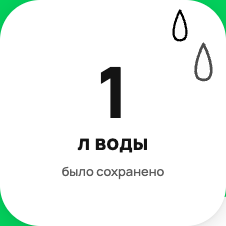
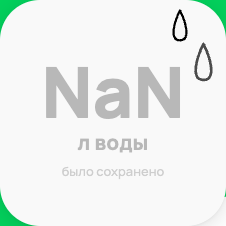
fix: clean typos

Changed region(s): [[0.1858, 0.2788, 0.8053, 0.5265], [0.3407, 0.5885, 0.6504, 0.6814], [0.2478, 0.7434, 0.7434, 0.8053]]

diff --git a/tests/test_case_02.py b/tests/test_case_02.py
@@ -1,16 +1,16 @@
 from playwright.sync_api import Page
-from autotests.config.url import Url, API
+from config.url import Url, API
 
 
-class TestCase04:
-    def test_case_04(self, page: Page) -> None:
+class TestCase02:
+    def test_case_02(self, page: Page) -> None:
         def create_route_function(path):
             return lambda route: route.fulfill(path=path)
-        page.route(API.HTTP_REQUEST, create_route_function("../data/json/test_case_4.json"))
+        page.route(API.HTTP_REQUEST, create_route_function("../data/json/test_case_2.json"))
         page.goto(Url.DOMAIN)
         page.wait_for_selector(".desktop-impact-items-F7T6E")
         counters = page.query_selector_all(".desktop-impact-item-eeQO3")
         filtered_counters = [counter for i, counter in enumerate(counters) if (i + 1) % 2 == 0]
 
         for i, counter in enumerate(filtered_counters):
-            counter.screenshot(path=f"../../output/test_case_4_counter_{i + 1}.png")
+            counter.screenshot(path=f"../output/test_case_2_counter_{i + 1}.png")

diff --git a/tests/test_case_03.py b/tests/test_case_03.py
@@ -1,16 +1,16 @@
 from playwright.sync_api import Page
-from autotests.config.url import Url, API
+from config.url import Url, API
 
 
-class TestCase02:
-    def test_case_02(self, page: Page) -> None:
+class TestCase03:
+    def test_case_03(self, page: Page) -> None:
         def create_route_function(path):
             return lambda route: route.fulfill(path=path)
-        page.route(API.HTTP_REQUEST, create_route_function("../data/json/test_case_2.json"))
+        page.route(API.HTTP_REQUEST, create_route_function("../data/json/test_case_3.json"))
         page.goto(Url.DOMAIN)
         page.wait_for_selector(".desktop-impact-items-F7T6E")
         counters = page.query_selector_all(".desktop-impact-item-eeQO3")
         filtered_counters = [counter for i, counter in enumerate(counters) if (i + 1) % 2 == 0]
 
         for i, counter in enumerate(filtered_counters):
-            counter.screenshot(path=f"../../output/test_case_2_counter_{i + 1}.png")
+            counter.screenshot(path=f"../output/test_case_3_counter_{i + 1}.png")

diff --git a/tests/test_case_04.py b/tests/test_case_04.py
@@ -1,16 +1,16 @@
 from playwright.sync_api import Page
-from autotests.config.url import Url, API
+from config.url import Url, API
 
 
-class TestCase06:
-    def test_case_06(self, page: Page) -> None:
+class TestCase04:
+    def test_case_04(self, page: Page) -> None:
         def create_route_function(path):
             return lambda route: route.fulfill(path=path)
-        page.route(API.HTTP_REQUEST, create_route_function("../data/json/test_case_2.json"))
+        page.route(API.HTTP_REQUEST, create_route_function("../data/json/test_case_4.json"))
         page.goto(Url.DOMAIN)
         page.wait_for_selector(".desktop-impact-items-F7T6E")
         counters = page.query_selector_all(".desktop-impact-item-eeQO3")
         filtered_counters = [counter for i, counter in enumerate(counters) if (i + 1) % 2 == 0]
 
         for i, counter in enumerate(filtered_counters):
-            counter.screenshot(path=f"../../output/test_case_6_counter_{i + 1}.png")
+            counter.screenshot(path=f"../output/test_case_4_counter_{i + 1}.png")

diff --git a/tests/test_case_06.py b/tests/test_case_06.py
@@ -1,16 +1,16 @@
 from playwright.sync_api import Page
-from autotests.config.url import Url, API
+from config.url import Url, API
 
 
-class TestCase03:
-    def test_case_03(self, page: Page) -> None:
+class TestCase06:
+    def test_case_06(self, page: Page) -> None:
         def create_route_function(path):
             return lambda route: route.fulfill(path=path)
-        page.route(API.HTTP_REQUEST, create_route_function("../data/json/test_case_3.json"))
+        page.route(API.HTTP_REQUEST, create_route_function("../data/json/test_case_6.json"))
         page.goto(Url.DOMAIN)
         page.wait_for_selector(".desktop-impact-items-F7T6E")
         counters = page.query_selector_all(".desktop-impact-item-eeQO3")
         filtered_counters = [counter for i, counter in enumerate(counters) if (i + 1) % 2 == 0]
 
         for i, counter in enumerate(filtered_counters):
-            counter.screenshot(path=f"../../output/test_case_3_counter_{i + 1}.png")
+            counter.screenshot(path=f"../output/test_case_6_counter_{i + 1}.png")

diff --git a/tests/test_case_01.py b/tests/test_case_01.py
@@ -1,5 +1,5 @@
 from playwright.sync_api import Page
-from autotests.config.url import Url
+from config.url import Url
 
 
 class TestCase01:
@@ -10,4 +10,4 @@ class TestCase01:
         filtered_counters = [counter for i, counter in enumerate(counters) if (i + 1) % 2 == 0]
 
         for i, counter in enumerate(filtered_counters):
-            counter.screenshot(path=f"../../output/test_case_1_counter_{i + 1}.png")
+            counter.screenshot(path=f"../output/test_case_1_counter_{i + 1}.png")

diff --git a/fixtures/page.py b/fixtures/page.py
@@ -1,6 +1,6 @@
 import pytest
 
-from autotests.config.playwright import Playwright
+from config.playwright import Playwright
 from playwright.sync_api import Page, sync_playwright
 
 

diff --git a/BUGS.md b/BUGS.md
@@ -28,10 +28,10 @@
 | **Негативный тест: отрицательные значения, строка и пустая строка** |                                                                                                                                                                                                                                |
 |:--------------------------------------------------------------------|:-------------------------------------------------------------------------------------------------------------------------------------------------------------------------------------------------------------------------------|
 | `Идентификатор`                                                     | TC-06                                                                                                                                                                                                                          |
-| `Заголовок`                                                         | Счетчики показывают 1, когда данные приходят в строковом формате.                                                                                                                                                              |
-| `Описание`                                                          | Если данные пришли в невалидном формате (не положительные числа), то счетчики должны оставаться неактивными. Сейчас это верно только для негативных чисел, а строки (и пустые строки) конвертируются в 1.                      |
+| `Заголовок`                                                         | Счетчики показывают 0, когда данные - это пустая строка, отрицательное значение, когда данные меньше 0 и NaN, когда данные - строки.                                                                                           |
+| `Описание`                                                          | Если данные пришли в невалидном формате (не положительные числа), то счетчики должны оставаться неактивными. Сейчас это верно только для пустых строк.                                                                         |
 | `Шаги воспроизведения`                                              | Перейти на страницу https://www.avito.ru/avito-care/eco-impact<br/>перехватить http-запрос и подменить данные json'а моковыми данными,<br/>локализировать элемент, содержащий счетчики,<br/>сделать скриншоты каждого счетчика |
-| `Текущий результат`                                                 | счетчик CO2: 0<br/>счетчик энергии: 1 кВ*ч<br/>счетчик воды: 1 л                                                                                                                                                               |
+| `Текущий результат`                                                 | счетчик CO2: -10<br/>счетчик энергии: 0 кВ*ч<br/>счетчик воды: NaN                                                                                                                                                             |
 | `Ожидаемый результат`                                               | счетчик CO2: 0<br/>счетчик энергии: 0<br/>счетчик воды: 0                                                                                                                                                                      |
 | `Критичность`                                                       | Major                                                                                                                                                                                                                          |
 | `Приоритет`                                                         | High                                                                                                                                                                                                                           |
